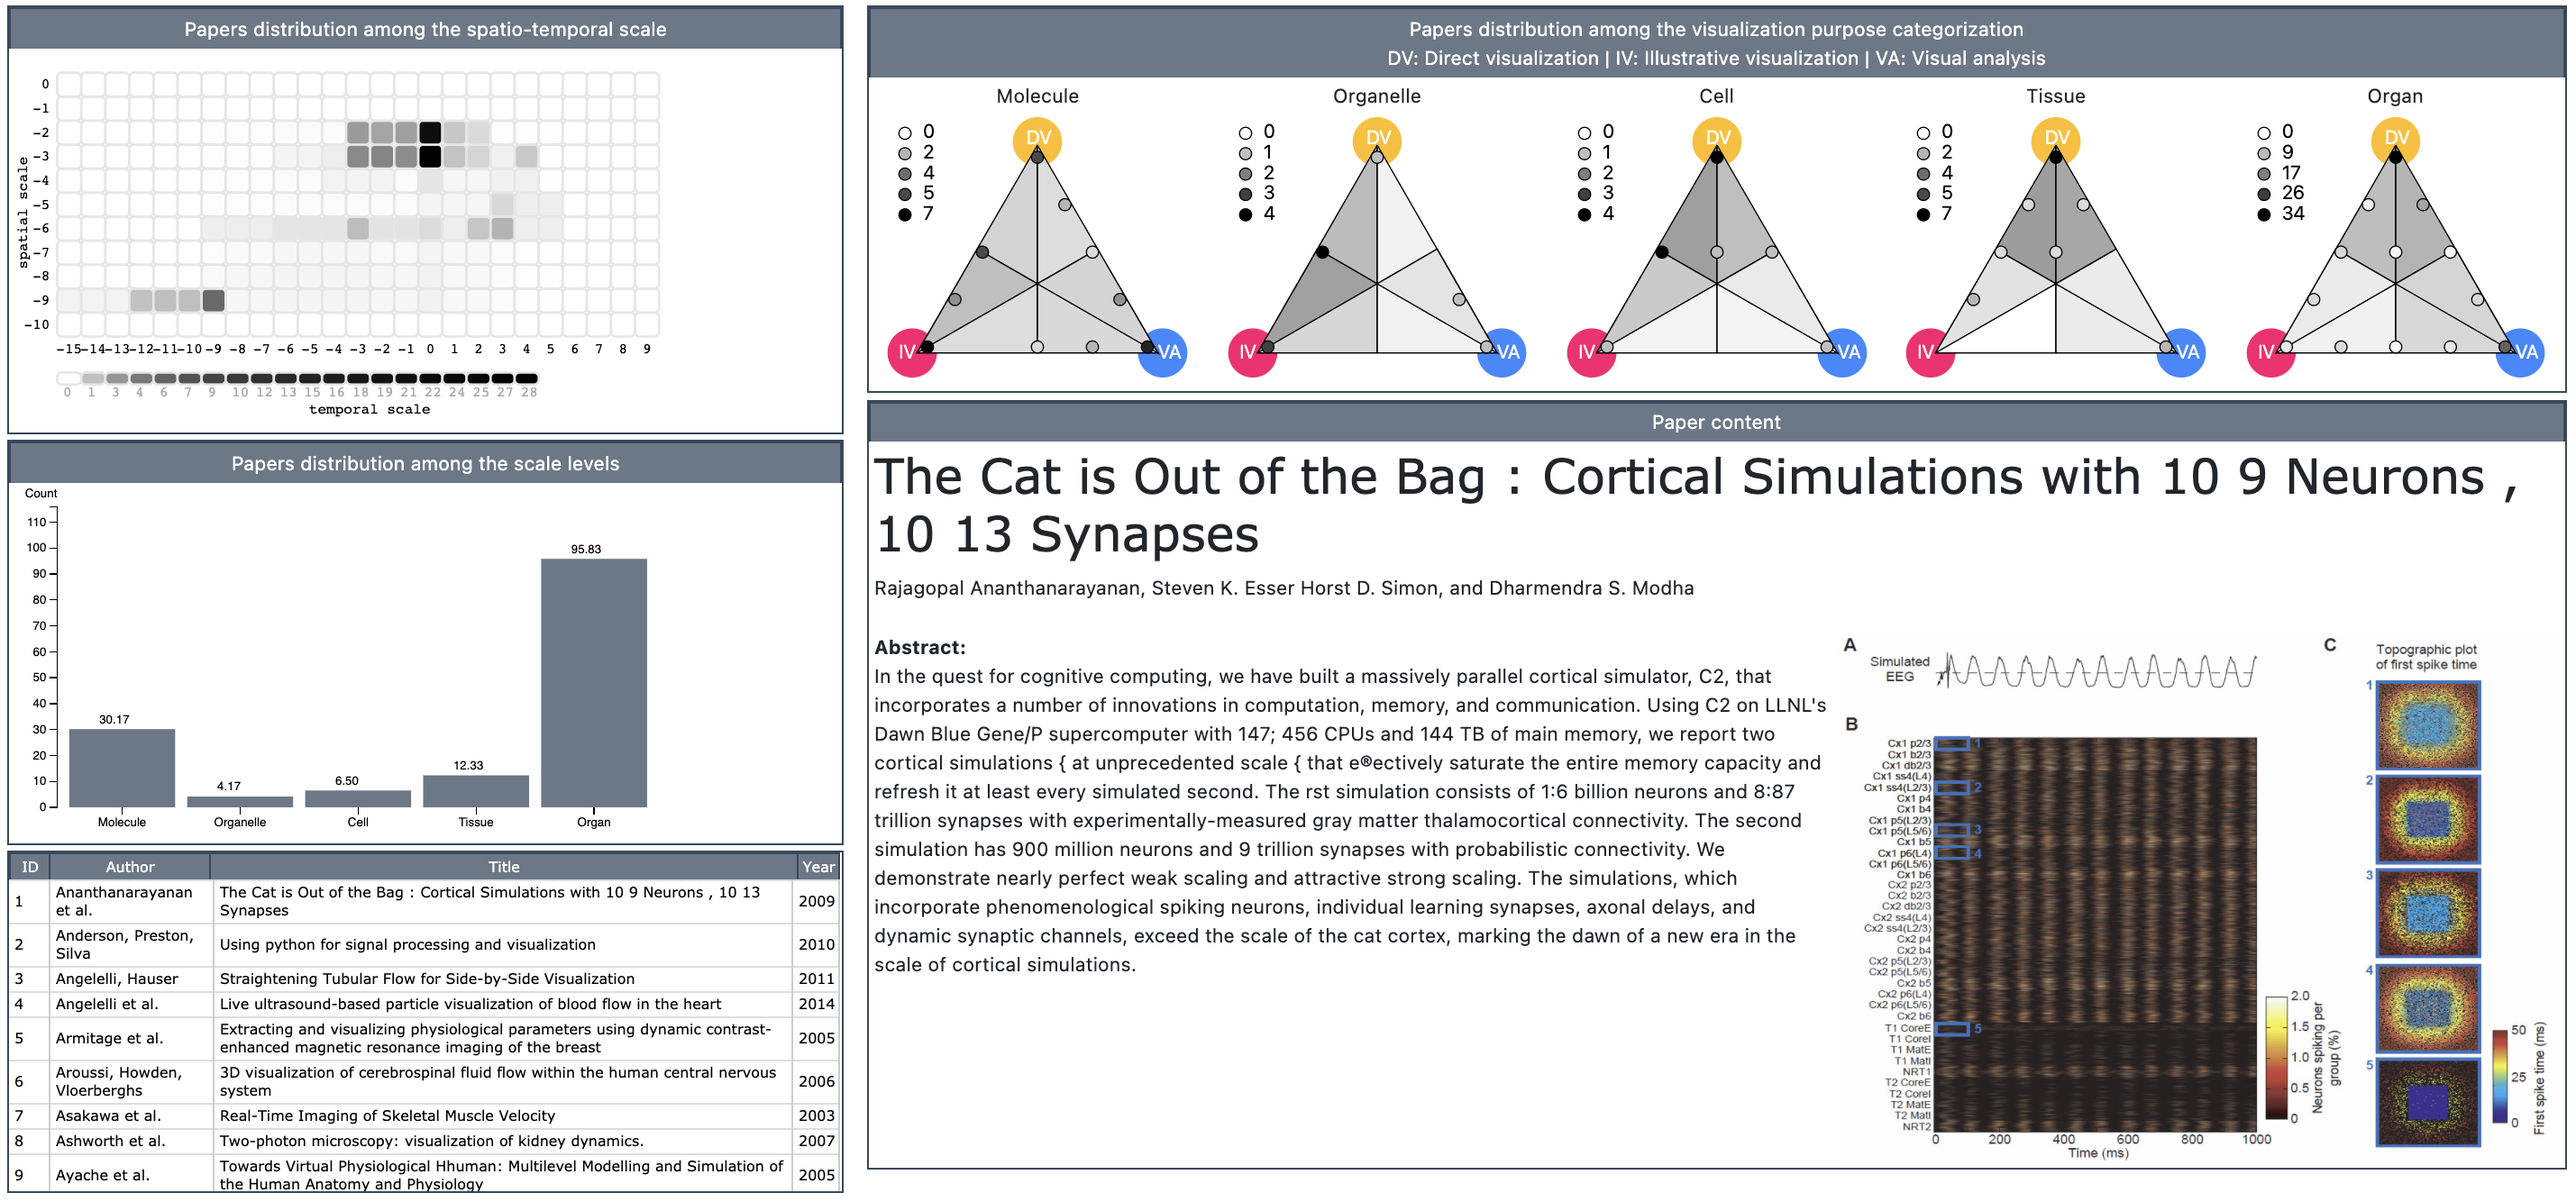
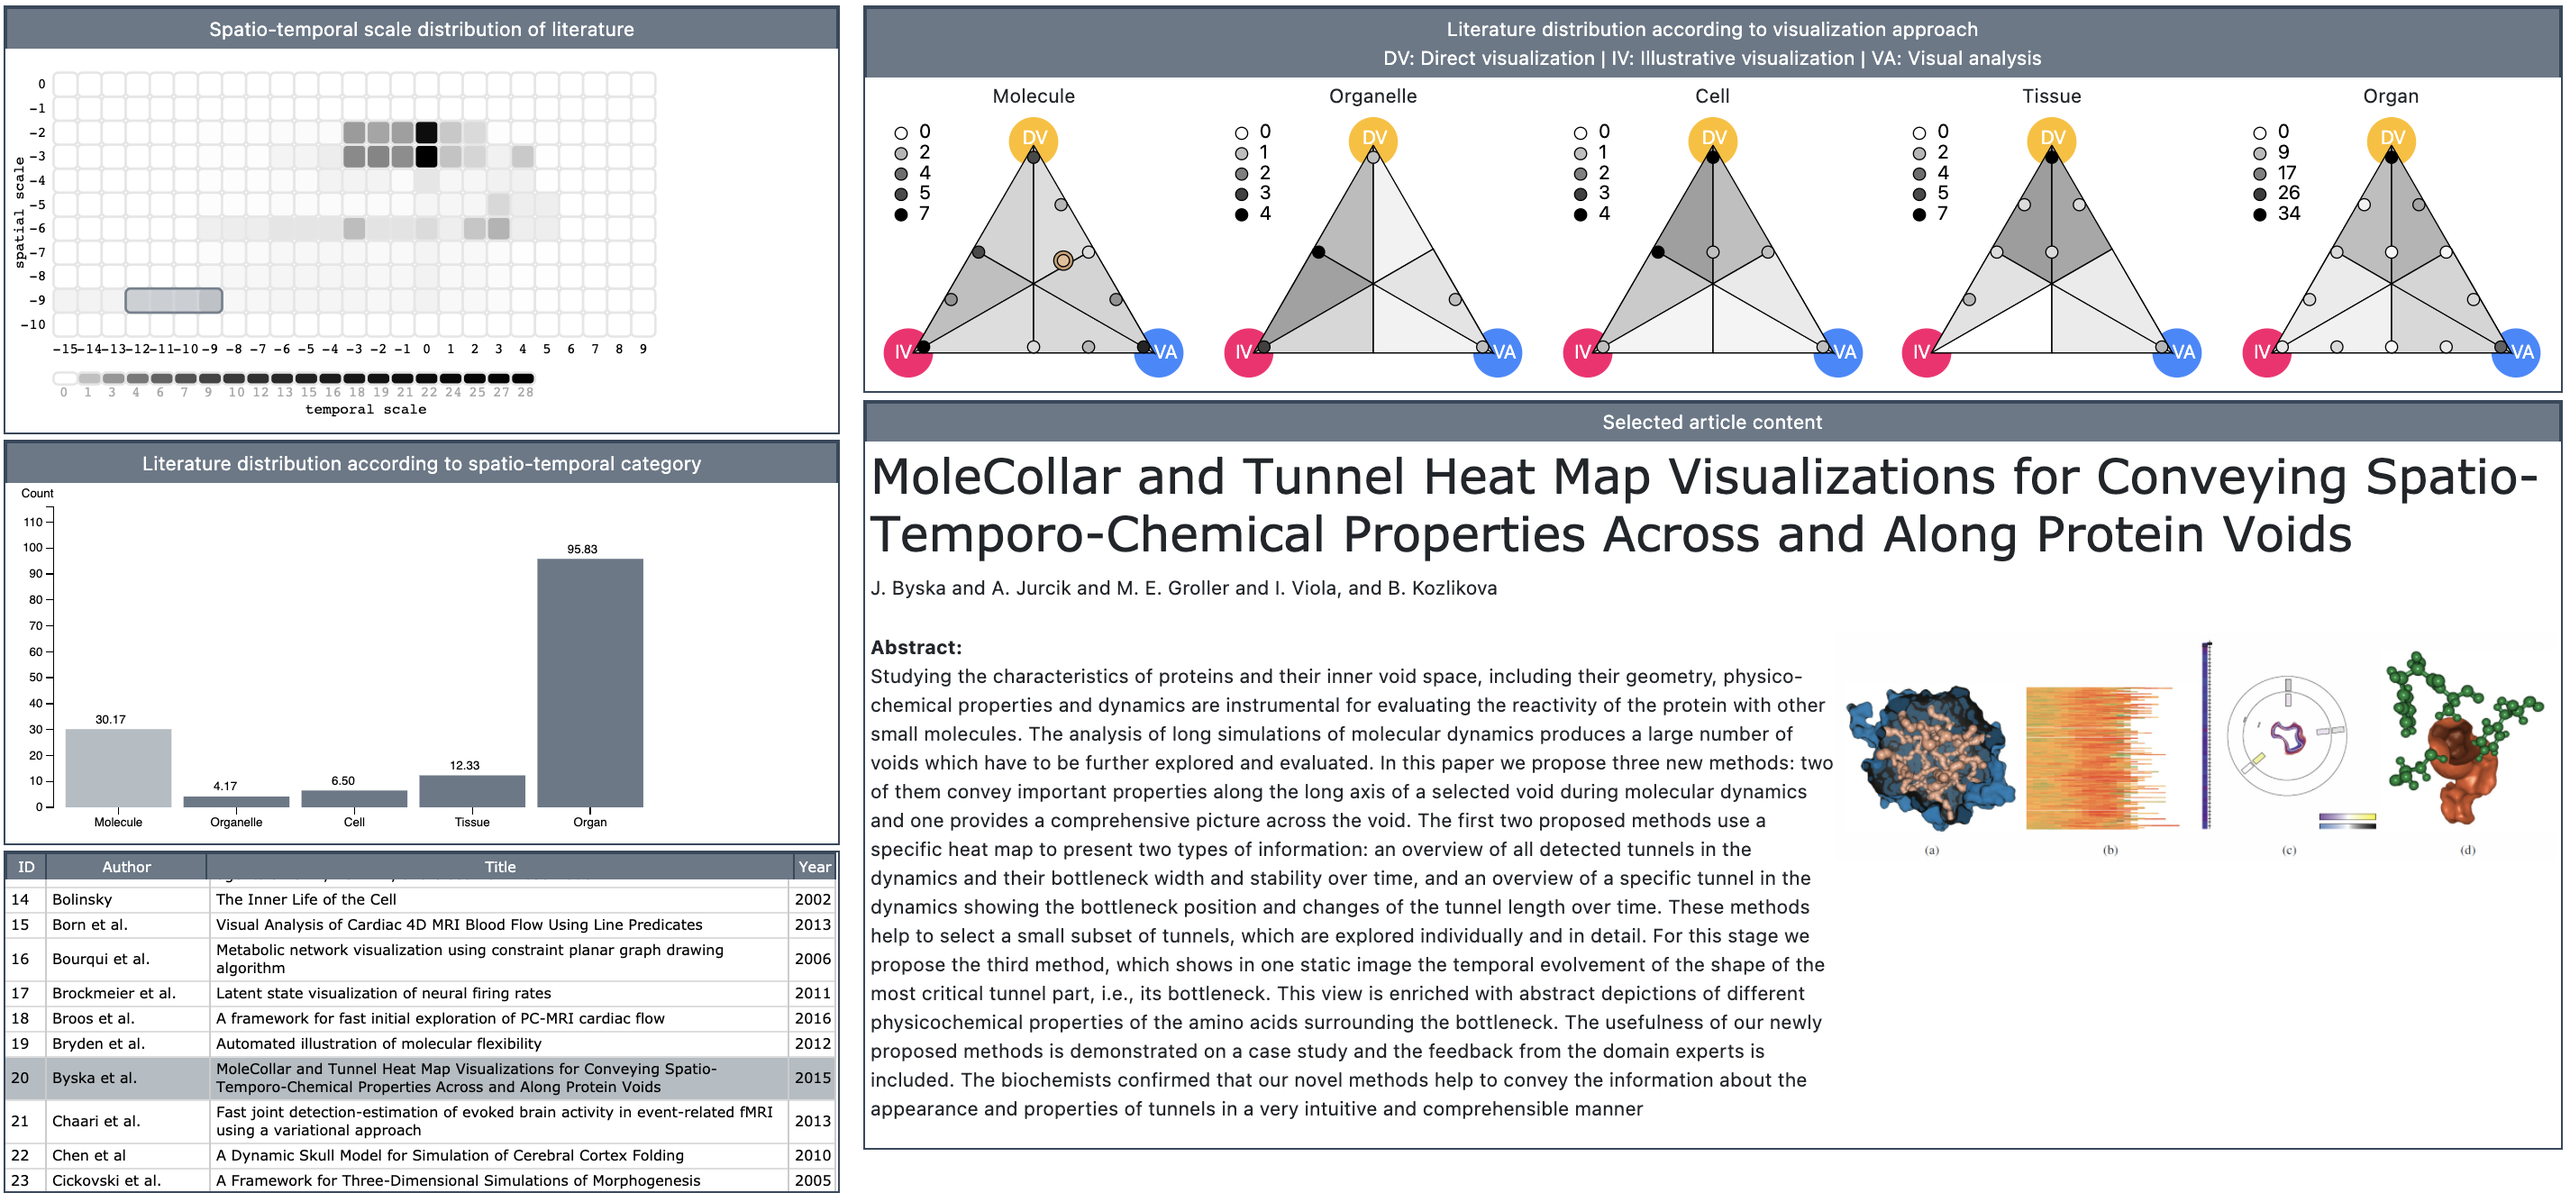
supp mat notes to readme, database add, new img

diff --git a/index.html b/index.html
@@ -20,16 +20,16 @@
         <div class="row">
             <div class="col-md-4" style="min-width: 570px;">
                 <div id="scaleHeatMap">
-                    <div id="scaleHeatMapHeader">Papers distribution among the spatio-temporal scale</div>
+                    <div id="scaleHeatMapHeader">Spatio-temporal scale distribution of literature</div>
                 </div>
                 <div id="levelsChart">
-                    <div id="levelsChartHeader">Papers distribution among the scale levels</div>
+                    <div id="levelsChartHeader">Literature distribution according to spatio-temporal category</div>
                 </div>
                 <div class="tableContainer"></div>
             </div>
             <div class="col">
                 <div id="triangles">
-                    <div id="trianglesHeader">Papers distribution among the visualization purpose categorization<br>DV: Direct visualization | IV: Illustrative visualization | VA: Visual analysis</div>
+                    <div id="trianglesHeader">Literature distribution according to visualization approach<br>DV: Direct visualization | IV: Illustrative visualization | VA: Visual analysis</div>
                     <div class="triangleOuterWrapper">
                         <div class="triangleWrapper">
                             <div class="triangleHeader">Molecule</div>
@@ -54,7 +54,7 @@
                     </div>
                 </div>
                 <div id="paper">
-                    <div id="paperHeader">Paper content</div>
+                    <div id="paperHeader">Selected article content</div>
                     <div id="paperHeaderInfo">
                         <h1>The Cat is Out of the Bag : Cortical Simulations with 10 9 Neurons , 10 13 Synapses</h1>
                         <p>Rajagopal Ananthanarayanan, Steven K. Esser Horst D. Simon, and Dharmendra S. Modha</p>

diff --git a/README.md b/README.md
@@ -3,5 +3,25 @@
 
 ![Screenshot of navigation interface for literature collected and categorized to date for Physiology Visualization State-of-the-Art Report](preview.png)
 
+Explore the space of physiology visualization literature (current number: *155* articles), organized according to spatio-temporal scale and visualization approach, here: [https://lauragarrison87.github.io/star.web/](https://lauragarrison87.github.io/star.web/)
+
+_Note: This is a work in progress!_ 
+
+
 _Abstract_:
 Physiology describes the fundamental science of life and its deepest workings. We see the underpinnings of human physiology cross-cutting all major scientific areas including medicine, biology, chemistry, and physics. With this state-of-the-art report we provide a broad overview and taxonomy of modern methods used for the visualization of physiological processes. We frame our taxonomy in two layers: the first layer organizes methods according to a spatiotemporal axis that is discretized by scale: molecule, organelle, cell, tissue, and organ scale. A subsequent layer further categorizes these methods according to the visualization approach that accommodates the task they serve: direct visualization, visual analysis and illustrative visualization. This categorization implicitly considers then whether the visualization depicts raw, derived, or abstracted data. Through this taxonomy one may quickly identify the extent (or absence) of visualization efforts to date at each scale for each of the three primary visualization techniques. We conclude our report with an outlook on promising new avenues of research in our efforts to visualize physiological processes.
+
+### Additional materials 
+
+- [Database of categorized literature to date (work in progress)](Physio_STAR_papers_10102021.xlsx)
+- Short Biography of authors:
+    - *Laura Garrison* is a PhD student in the Dept. of Informatics at the Univ. of Bergen, Norway. Her thesis centers on the visualization of physiological processes for communication, exploration, and analysis. She is a board-certified medical illustrator with extensive experience in the medical education technology start-up space as an illustrator, designer, and content director. 
+    - *Ivan Kolesar* received his PhD from the Dept. of Informatics at the Univ. of Bergen, Norway, where his research interests include molecular visualization, the visualization of structural phenomena, and physiology visualization. He now is a software engineer for Rainfall AS, a technology company in Bergen. 
+    - *Ivan Viola* is a professor in the Dept. of Computer, Electrical and Mathematical Science and Engineering of King Abdullah University of Science and Technology in Saudi Arabia and an associate professor in the Dept. of Computer Graphics at TU Wien, Austria. His research is focusing on effective visualization methods that are well understandable by humans, in the context of several application domains, notably computational biology.
+    - *Helwig Hauser* is a professor in visualization at the Dept. of Informatics at the Univ. of Bergen, Norway with over 20 years of experience in researching and teaching visualization. He co-leads the VIDI (Visual Data Science for Large Scale Imaging Biomarker Discovery) project with Stefan Bruckner, and previous led a research project on the illustration of physiology (PhysioIllustration). He has extensive experience with writing state-of-the-art reports. 
+    - *Stefan Bruckner* is a professor in visualization at the Dept. of Informatics at the Univ. of Bergen, Norway. His research interests include the visualization of biomedical data with respect to structural and functional aspects, in particular also using illustrative methods. He co-leads the VIDI project alongside Helwig Hauser.  
+- Keywords for initial literature search criteria:
+    - *Visual*: visualization, visual, visual abstraction
+    - *Visualization task*: communicate, explore, analyze, present
+    - *Scale/structure*: gene coexpression, gene interaction, molecular, molecule, structural biology, organelle, subcellular, cell, cellular, tissue, organ, heart, cardiac, brain, neurological, blood, multi-scale, multiscale
+    - *Temporal/physiological*: dynamic(s), interaction(s), pathway, reactivity, process(es), life cycle, division, signal(ing), apoptosis, repair, contraction, activity, respiration, movement, connectivity, flow 
